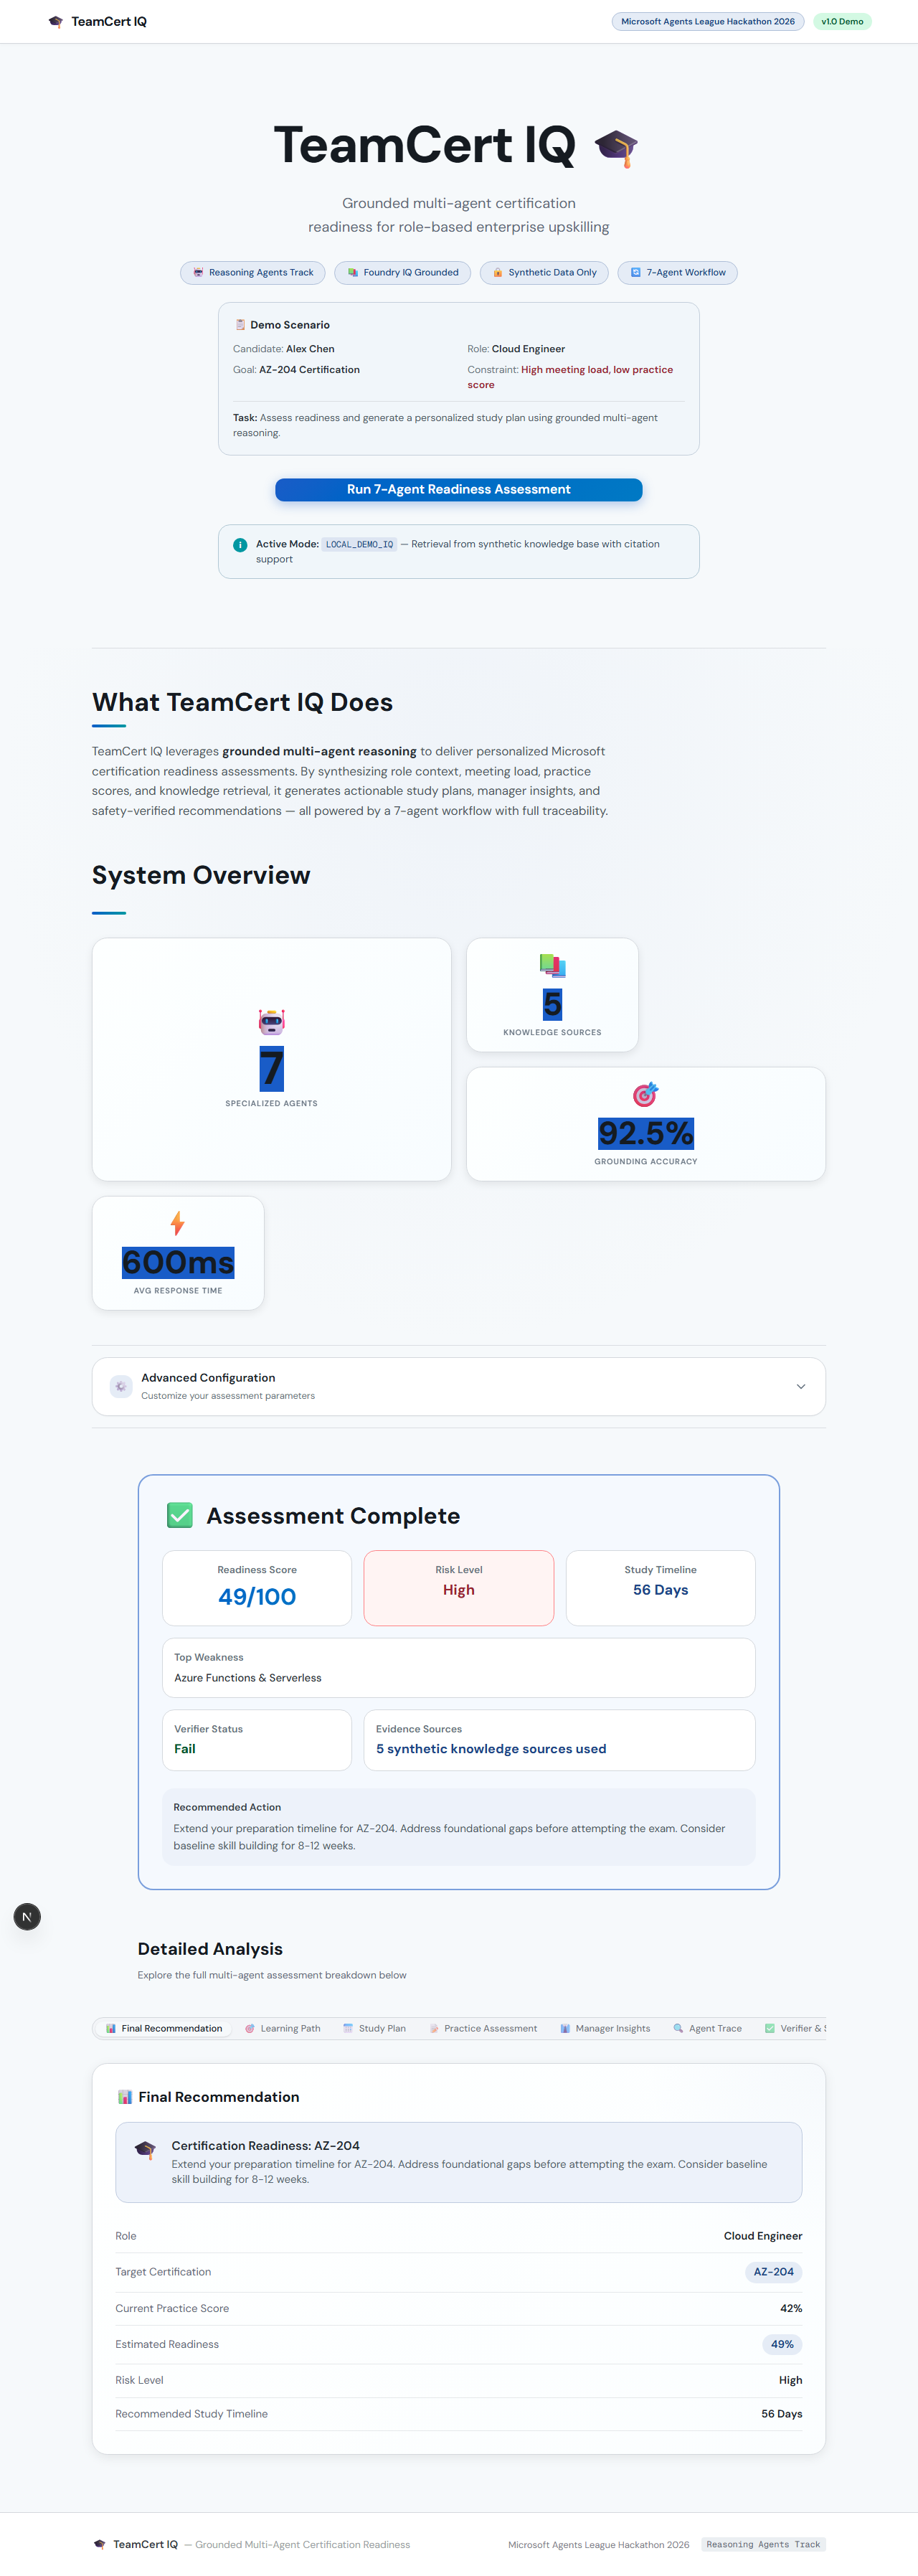
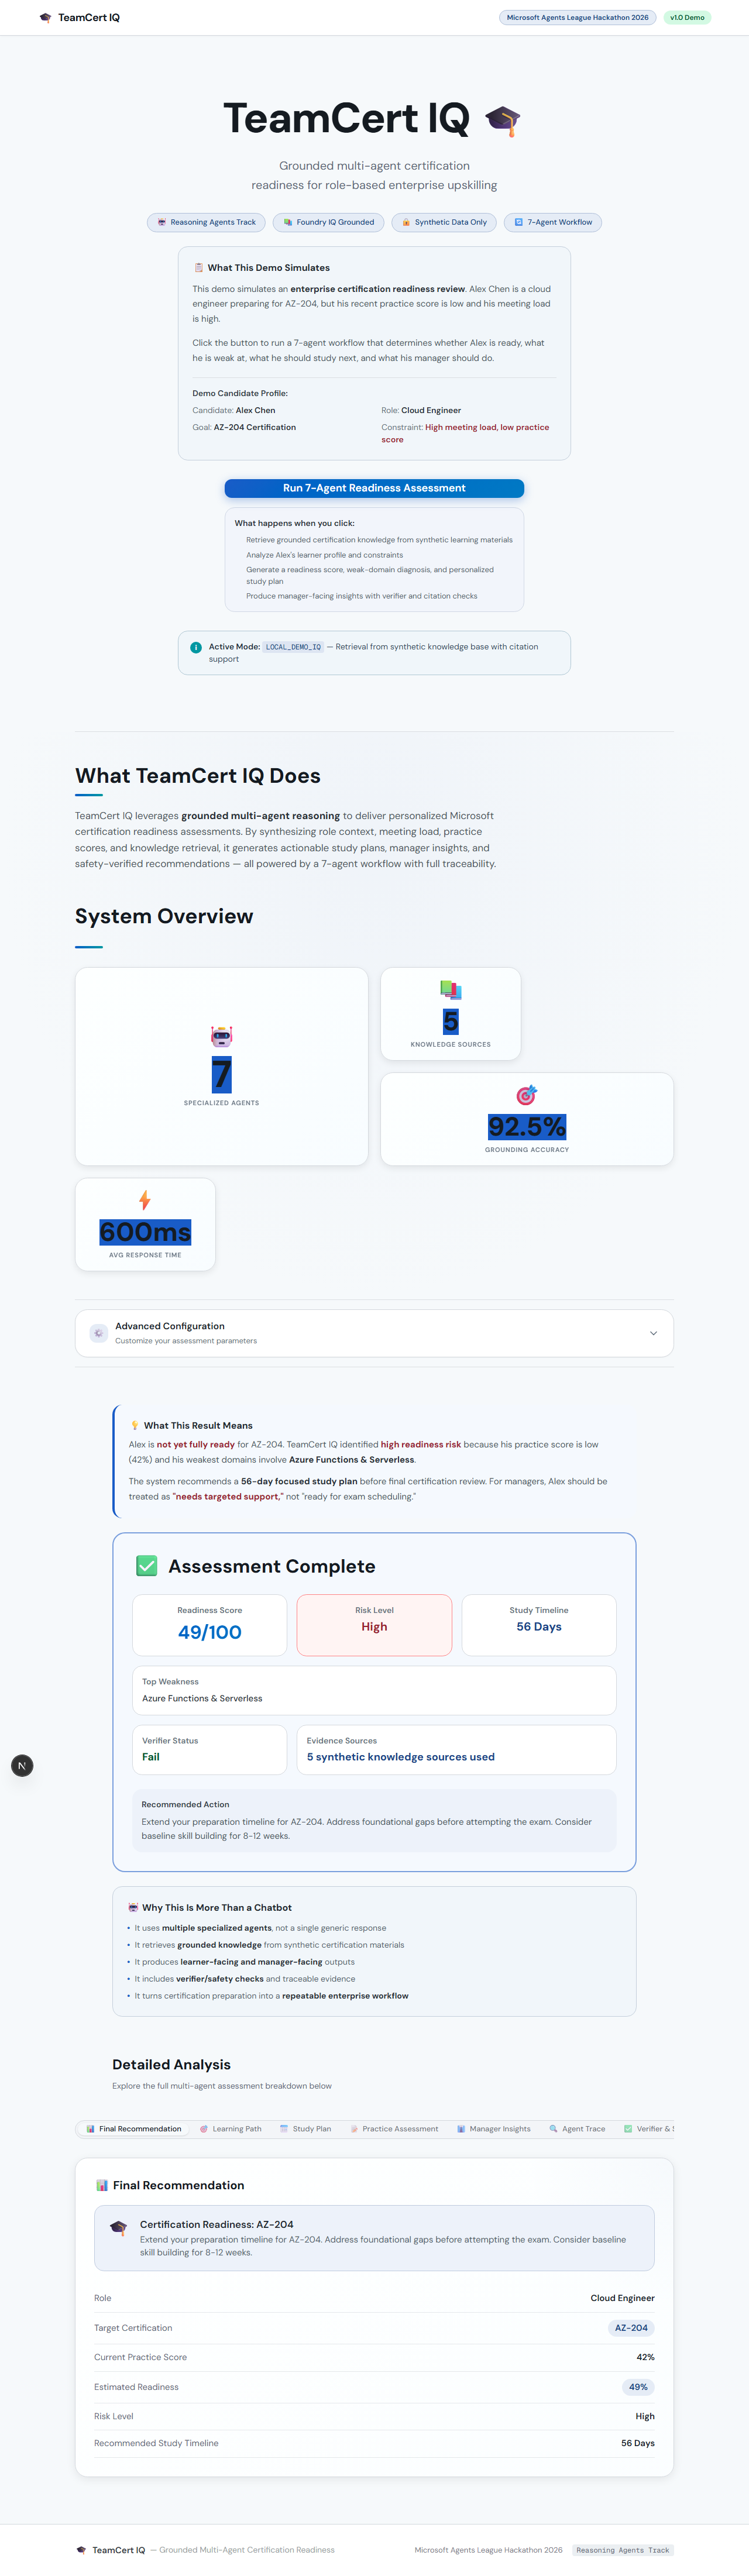
Final judge-facing improvements: Add clear narrative for evaluators
- Added 'What This Demo Simulates' explanation in Demo Scenario card
- Added 'What happens when you click' 4-step guide below button
- Added 'What This Result Means' business context in Assessment Summary
- Added 'Why This Is More Than a Chatbot' differentiator card
- Updated screenshots to reflect final version

Judge can now understand the demo without README or F12:
- Who the system helps (Alex Chen, Cloud Engineer with constraints)
- What happens when clicking (7-agent workflow steps)
- What results mean in business terms (not ready, needs support)
- Why multi-agent reasoning matters (grounded, verifier, enterprise workflow)

diff --git a/components/assessment-summary.tsx b/components/assessment-summary.tsx
@@ -15,9 +15,39 @@ export function AssessmentSummary({ result }: AssessmentSummaryProps) {
 
   const riskColor = riskColors[result.learnerProfile.baselineRisk]
 
+  const weakDomains = result.learningPath.recommendedSkills
+    .filter((s) => s.priority === "High")
+    .map((s) => s.skill)
+    .slice(0, 2)
+    .join(", ")
+
   return (
     <section className="w-full px-6 md:px-12 lg:px-16 py-8" id="assessment-complete">
       <div className="max-w-4xl mx-auto">
+        {/* What this result means */}
+        <div
+          className="mb-6 p-6 rounded-xl border-l-4"
+          style={{
+            background: "oklch(98% 0.008 260)",
+            borderLeftColor: "oklch(50% 0.18 260)",
+          }}
+        >
+          <p className="font-bold mb-2" style={{ fontSize: "1rem", color: "oklch(28% 0.015 250)" }}>
+            💡 What This Result Means
+          </p>
+          <p style={{ fontSize: "0.9375rem", color: "oklch(45% 0.025 250)", lineHeight: 1.7 }}>
+            Alex is <strong style={{ color: riskColor.text }}>not yet fully ready</strong> for AZ-204. TeamCert IQ identified{" "}
+            <strong style={{ color: riskColor.text }}>{result.learnerProfile.baselineRisk.toLowerCase()} readiness risk</strong> because
+            his practice score is low ({result.learnerProfile.practiceScore}%) and his weakest domains involve{" "}
+            <strong style={{ color: "oklch(30% 0.015 250)" }}>{weakDomains || "core certification skills"}</strong>.
+          </p>
+          <p style={{ fontSize: "0.9375rem", color: "oklch(45% 0.025 250)", lineHeight: 1.7, marginTop: "0.75rem" }}>
+            The system recommends a <strong style={{ color: "oklch(30% 0.015 250)" }}>{result.studyPlan.durationDays}-day focused study plan</strong> before
+            final certification review. For managers, Alex should be treated as <strong style={{ color: riskColor.text }}>"needs targeted support,"</strong> not
+            "ready for exam scheduling."
+          </p>
+        </div>
+
         <div
           className="p-8 rounded-2xl border-2"
           style={{
@@ -128,6 +158,41 @@ export function AssessmentSummary({ result }: AssessmentSummaryProps) {
               {result.recommendation}
             </p>
           </div>
+        </div>
+
+        {/* Why this is more than a chatbot */}
+        <div
+          className="mt-6 p-6 rounded-xl border"
+          style={{
+            background: "oklch(97% 0.008 250)",
+            borderColor: "oklch(85% 0.02 250)",
+          }}
+        >
+          <p className="font-bold mb-3" style={{ fontSize: "1rem", color: "oklch(28% 0.015 250)" }}>
+            🤖 Why This Is More Than a Chatbot
+          </p>
+          <ul className="space-y-2" style={{ fontSize: "0.875rem", color: "oklch(48% 0.025 250)", paddingLeft: "0" }}>
+            <li className="flex items-start gap-2">
+              <span style={{ color: "oklch(50% 0.18 260)", fontWeight: "bold" }}>•</span>
+              <span>It uses <strong style={{ color: "oklch(30% 0.015 250)" }}>multiple specialized agents</strong>, not a single generic response</span>
+            </li>
+            <li className="flex items-start gap-2">
+              <span style={{ color: "oklch(50% 0.18 260)", fontWeight: "bold" }}>•</span>
+              <span>It retrieves <strong style={{ color: "oklch(30% 0.015 250)" }}>grounded knowledge</strong> from synthetic certification materials</span>
+            </li>
+            <li className="flex items-start gap-2">
+              <span style={{ color: "oklch(50% 0.18 260)", fontWeight: "bold" }}>•</span>
+              <span>It produces <strong style={{ color: "oklch(30% 0.015 250)" }}>learner-facing and manager-facing</strong> outputs</span>
+            </li>
+            <li className="flex items-start gap-2">
+              <span style={{ color: "oklch(50% 0.18 260)", fontWeight: "bold" }}>•</span>
+              <span>It includes <strong style={{ color: "oklch(30% 0.015 250)" }}>verifier/safety checks</strong> and traceable evidence</span>
+            </li>
+            <li className="flex items-start gap-2">
+              <span style={{ color: "oklch(50% 0.18 260)", fontWeight: "bold" }}>•</span>
+              <span>It turns certification preparation into a <strong style={{ color: "oklch(30% 0.015 250)" }}>repeatable enterprise workflow</strong></span>
+            </li>
+          </ul>
         </div>
       </div>
     </section>

diff --git a/components/demo-scenario-card.tsx b/components/demo-scenario-card.tsx
@@ -3,36 +3,50 @@
 export function DemoScenarioCard() {
   return (
     <div
-      className="mt-6 mx-auto max-w-2xl p-5 rounded-xl border text-left"
+      className="mt-6 mx-auto max-w-2xl p-6 rounded-xl border text-left"
       style={{
         background: "oklch(97% 0.008 250)",
         borderColor: "oklch(85% 0.02 250)",
       }}
     >
-      <p className="font-bold mb-3" style={{ fontSize: "0.9375rem", color: "oklch(28% 0.015 250)" }}>
-        📋 Demo Scenario
+      <p className="font-bold mb-3" style={{ fontSize: "1rem", color: "oklch(28% 0.015 250)" }}>
+        📋 What This Demo Simulates
       </p>
-      <div className="grid grid-cols-2 gap-x-6 gap-y-2" style={{ fontSize: "0.875rem" }}>
-        <div>
-          <span style={{ color: "oklch(55% 0.025 250)" }}>Candidate:</span>{" "}
-          <span className="font-semibold" style={{ color: "oklch(30% 0.015 250)" }}>Alex Chen</span>
-        </div>
-        <div>
-          <span style={{ color: "oklch(55% 0.025 250)" }}>Role:</span>{" "}
-          <span className="font-semibold" style={{ color: "oklch(30% 0.015 250)" }}>Cloud Engineer</span>
-        </div>
-        <div>
-          <span style={{ color: "oklch(55% 0.025 250)" }}>Goal:</span>{" "}
-          <span className="font-semibold" style={{ color: "oklch(30% 0.015 250)" }}>AZ-204 Certification</span>
-        </div>
-        <div>
-          <span style={{ color: "oklch(55% 0.025 250)" }}>Constraint:</span>{" "}
-          <span className="font-semibold" style={{ color: "oklch(45% 0.15 20)" }}>High meeting load, low practice score</span>
+      <p style={{ fontSize: "0.9375rem", color: "oklch(45% 0.025 250)", lineHeight: 1.7, marginBottom: "1rem" }}>
+        This demo simulates an <strong style={{ color: "oklch(30% 0.015 250)" }}>enterprise certification readiness review</strong>.
+        Alex Chen is a cloud engineer preparing for AZ-204, but his recent practice score is low and his meeting load is high.
+      </p>
+      <p style={{ fontSize: "0.9375rem", color: "oklch(45% 0.025 250)", lineHeight: 1.7, marginBottom: "1.25rem" }}>
+        Click the button to run a 7-agent workflow that determines whether Alex is ready, what he is weak at,
+        what he should study next, and what his manager should do.
+      </p>
+
+      <div
+        className="pt-4"
+        style={{ borderTop: "1px solid oklch(90% 0.006 250)" }}
+      >
+        <p className="font-semibold mb-2" style={{ fontSize: "0.875rem", color: "oklch(35% 0.02 250)" }}>
+          Demo Candidate Profile:
+        </p>
+        <div className="grid grid-cols-2 gap-x-6 gap-y-2" style={{ fontSize: "0.875rem" }}>
+          <div>
+            <span style={{ color: "oklch(55% 0.025 250)" }}>Candidate:</span>{" "}
+            <span className="font-semibold" style={{ color: "oklch(30% 0.015 250)" }}>Alex Chen</span>
+          </div>
+          <div>
+            <span style={{ color: "oklch(55% 0.025 250)" }}>Role:</span>{" "}
+            <span className="font-semibold" style={{ color: "oklch(30% 0.015 250)" }}>Cloud Engineer</span>
+          </div>
+          <div>
+            <span style={{ color: "oklch(55% 0.025 250)" }}>Goal:</span>{" "}
+            <span className="font-semibold" style={{ color: "oklch(30% 0.015 250)" }}>AZ-204 Certification</span>
+          </div>
+          <div>
+            <span style={{ color: "oklch(55% 0.025 250)" }}>Constraint:</span>{" "}
+            <span className="font-semibold" style={{ color: "oklch(45% 0.15 20)" }}>High meeting load, low practice score</span>
+          </div>
         </div>
       </div>
-      <p className="mt-3 pt-3" style={{ fontSize: "0.875rem", color: "oklch(45% 0.025 250)", borderTop: "1px solid oklch(90% 0.006 250)" }}>
-        <span className="font-semibold" style={{ color: "oklch(30% 0.015 250)" }}>Task:</span> Assess readiness and generate a personalized study plan using grounded multi-agent reasoning.
-      </p>
     </div>
   )
 }

diff --git a/components/hero-section.tsx b/components/hero-section.tsx
@@ -126,6 +126,25 @@ export function HeroSection({ onRunDemo, isLoading }: HeroSectionProps) {
               )}
             </span>
           </Button>
+
+          {/* What happens when you click */}
+          <div
+            className="mt-4 p-4 rounded-xl text-left"
+            style={{
+              background: "oklch(97% 0.008 260)",
+              border: "1px solid oklch(88% 0.02 260)",
+            }}
+          >
+            <p className="font-semibold mb-2" style={{ fontSize: "0.875rem", color: "oklch(30% 0.015 250)" }}>
+              What happens when you click:
+            </p>
+            <ol className="space-y-1.5" style={{ fontSize: "0.8125rem", color: "oklch(48% 0.025 250)", paddingLeft: "1.25rem" }}>
+              <li>Retrieve grounded certification knowledge from synthetic learning materials</li>
+              <li>Analyze Alex's learner profile and constraints</li>
+              <li>Generate a readiness score, weak-domain diagnosis, and personalized study plan</li>
+              <li>Produce manager-facing insights with verifier and citation checks</li>
+            </ol>
+          </div>
         </div>
 
         {/* Active Mode Banner */}